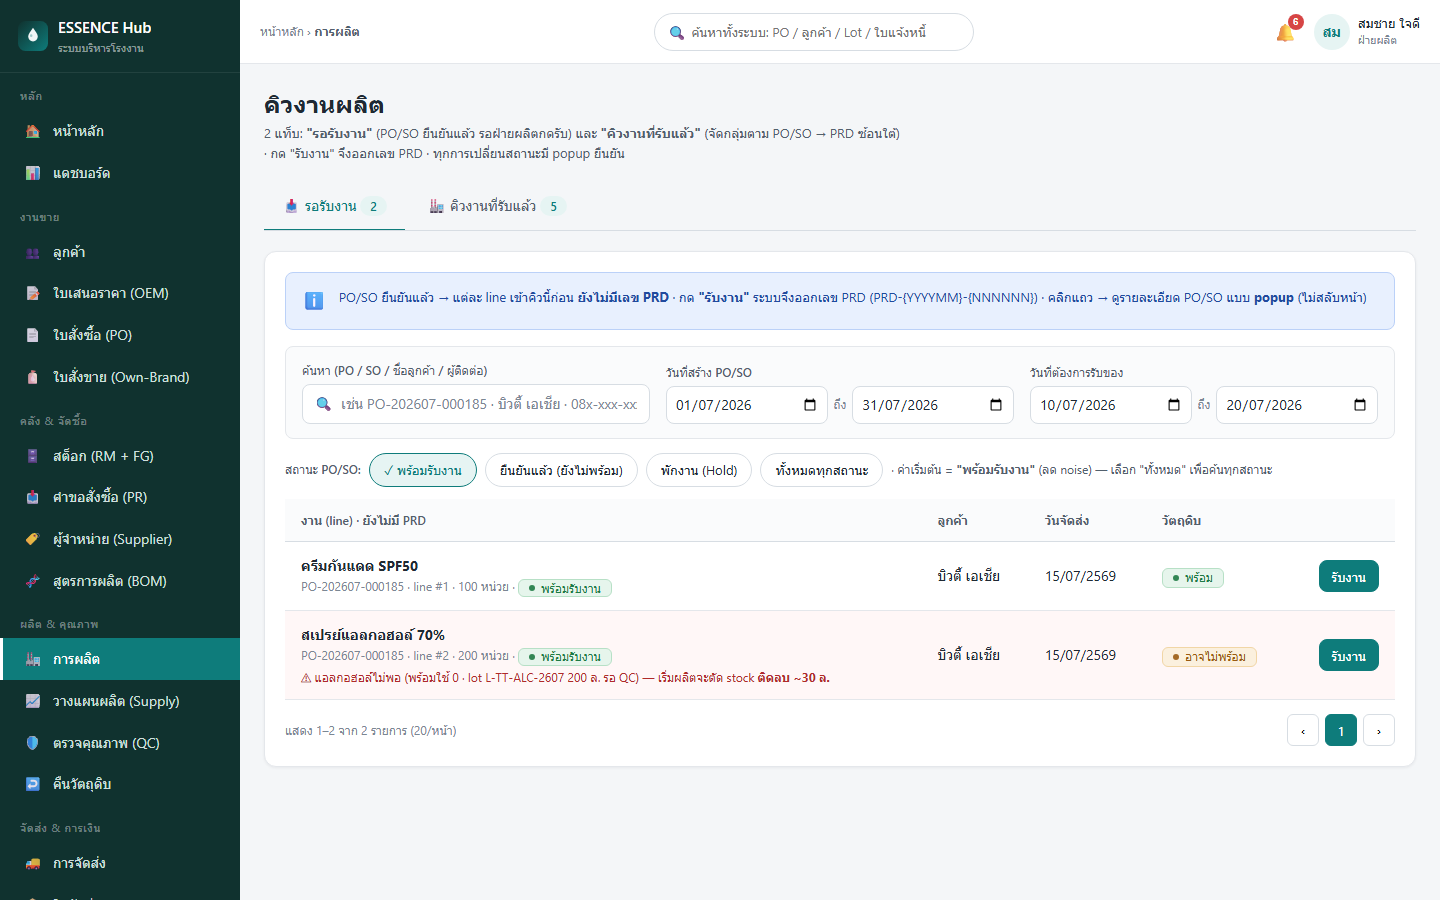
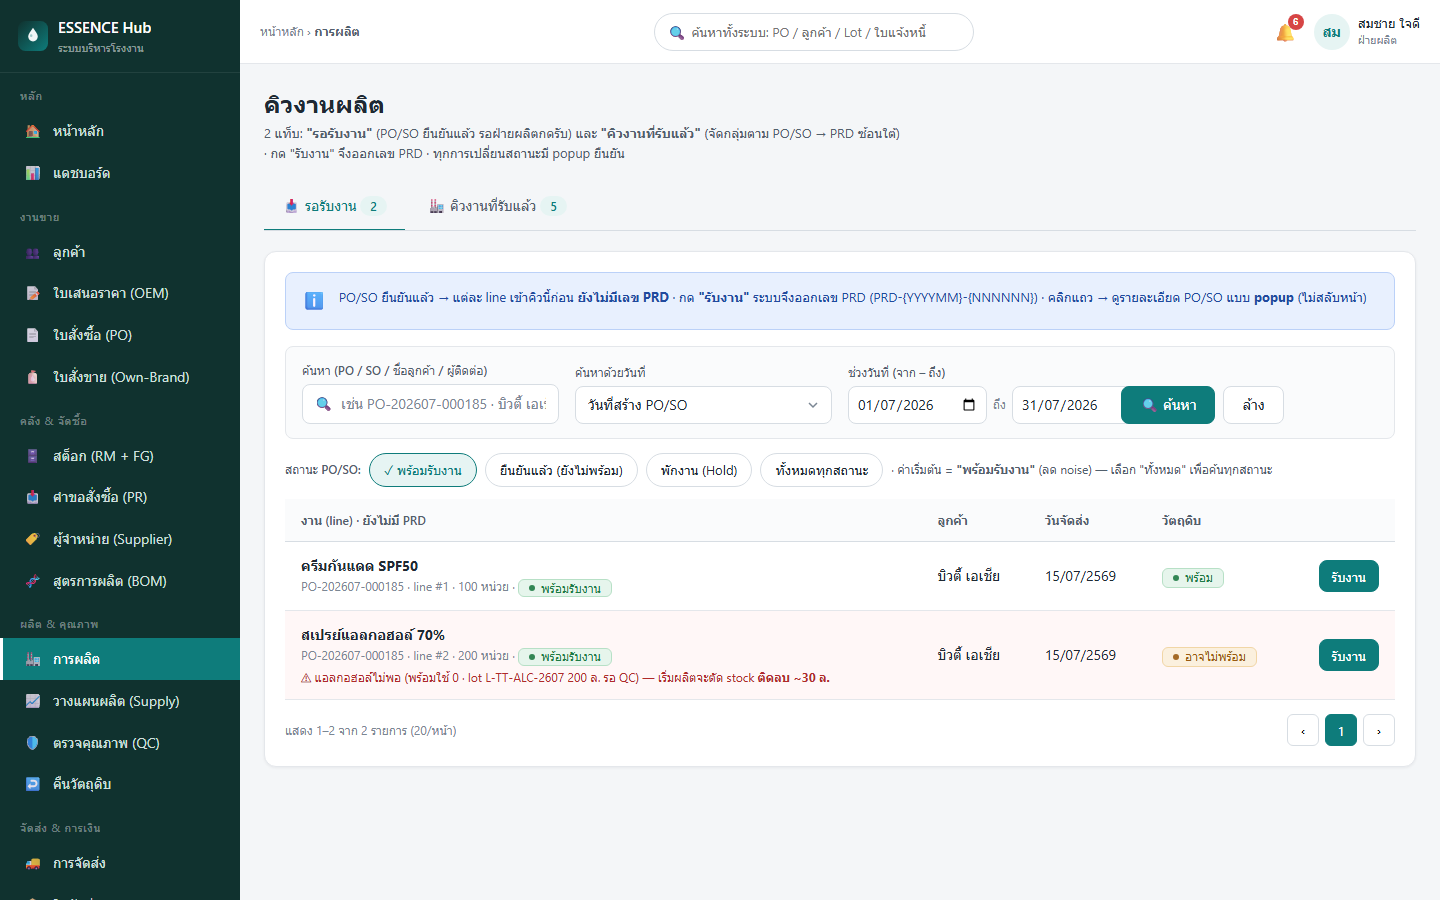
pipeline(erp-v2-ui-first): ux-ui production search fix (both tabs: add ค้นหา button + single date-range with date-type selector วันที่สร้าง/วันที่ต้องการรับของ) per Pond

Changed region(s): [[0.6875, 0.4044, 0.9062, 0.4978], [0.375, 0.4044, 0.5312, 0.4667], [0.5625, 0.4044, 0.6562, 0.4667]]

diff --git a/docs/design/erp-v2-ui-first/mockups/production.html b/docs/design/erp-v2-ui-first/mockups/production.html
@@ -145,6 +145,8 @@ textarea.inp{height:auto;padding:10px 12px;resize:vertical}
 .filtergrid .field{margin-bottom:0}
 .filtergrid .field label{font-size:12px;color:var(--text2);margin-bottom:4px}
 .daterange{display:flex;align-items:center;gap:6px}.daterange .inp{padding:0 8px;height:38px}.daterange .sep{color:var(--text3);font-size:12px;flex-shrink:0}
+.filtergrid .sel{height:38px}
+.searchactions{display:flex;gap:8px}.searchactions .btn{height:38px}
 .statusfilter{display:flex;align-items:center;gap:8px;flex-wrap:wrap;margin:2px 0 12px}
 .statusfilter .lbl{font-size:12px;color:var(--text2);font-weight:500}
 /* ==== grouped accepted queue (PROD-6) ==== */
@@ -213,8 +215,9 @@ textarea.inp{height:auto;padding:10px 12px;resize:vertical}
    <!-- PROD-1 search + PROD-2 filter -->
    <div class="filterpanel"><div class="filtergrid">
      <div class="field"><label>ค้นหา (PO / SO / ชื่อลูกค้า / ผู้ติดต่อ)</label><div class="searchbox" style="max-width:none"><span class="si">🔍</span><input class="inp" placeholder="เช่น PO-202607-000185 · บิวตี้ เอเชีย · 08x-xxx-xxxx"></div></div>
-     <div class="field"><label>วันที่สร้าง PO/SO</label><div class="daterange"><input class="inp" type="date" value="2026-07-01"><span class="sep">ถึง</span><input class="inp" type="date" value="2026-07-31"></div></div>
-     <div class="field"><label>วันที่ต้องการรับของ</label><div class="daterange"><input class="inp" type="date" value="2026-07-10"><span class="sep">ถึง</span><input class="inp" type="date" value="2026-07-20"></div></div>
+     <div class="field"><label>ค้นหาด้วยวันที่</label><select class="sel"><option>วันที่สร้าง PO/SO</option><option>วันที่ต้องการรับของ</option></select></div>
+     <div class="field"><label>ช่วงวันที่ (จาก – ถึง)</label><div class="daterange"><input class="inp" type="date" value="2026-07-01"><span class="sep">ถึง</span><input class="inp" type="date" value="2026-07-31"></div></div>
+     <div class="field"><label>&nbsp;</label><div class="searchactions"><button class="btn btn-primary">🔍 ค้นหา</button><button class="btn">ล้าง</button></div></div>
    </div></div>
    <div class="statusfilter"><span class="lbl">สถานะ PO/SO:</span><span class="chip on">✓ พร้อมรับงาน</span><span class="chip">ยืนยันแล้ว (ยังไม่พร้อม)</span><span class="chip">พักงาน (Hold)</span><span class="chip">ทั้งหมดทุกสถานะ</span><span class="tiny" style="color:var(--text2)">· ค่าเริ่มต้น = <b>"พร้อมรับงาน"</b> (ลด noise) — เลือก "ทั้งหมด" เพื่อค้นทุกสถานะ</span></div>
    <div class="tblwrap"><table class="tbl"><thead><tr><th>งาน (line) · ยังไม่มี PRD</th><th>ลูกค้า</th><th>วันจัดส่ง</th><th>วัตถุดิบ</th><th></th></tr></thead><tbody>
@@ -228,8 +231,9 @@ textarea.inp{height:auto;padding:10px 12px;resize:vertical}
    <!-- PROD-4 search (+PRD) -->
    <div class="filterpanel"><div class="filtergrid">
      <div class="field"><label>ค้นหา (PO / SO / <b>PRD</b> / ชื่อลูกค้า / ผู้ติดต่อ)</label><div class="searchbox" style="max-width:none"><span class="si">🔍</span><input class="inp" placeholder="เช่น PRD-202607-000091 · PO-202607-000181 · เดอร์มา แคร์"></div></div>
-     <div class="field"><label>วันที่สร้าง PO/SO</label><div class="daterange"><input class="inp" type="date" value="2026-07-01"><span class="sep">ถึง</span><input class="inp" type="date" value="2026-07-31"></div></div>
-     <div class="field"><label>วันที่ต้องการรับของ</label><div class="daterange"><input class="inp" type="date" value="2026-07-01"><span class="sep">ถึง</span><input class="inp" type="date" value="2026-07-31"></div></div>
+     <div class="field"><label>ค้นหาด้วยวันที่</label><select class="sel"><option>วันที่สร้าง PO/SO</option><option>วันที่ต้องการรับของ</option></select></div>
+     <div class="field"><label>ช่วงวันที่ (จาก – ถึง)</label><div class="daterange"><input class="inp" type="date" value="2026-07-01"><span class="sep">ถึง</span><input class="inp" type="date" value="2026-07-31"></div></div>
+     <div class="field"><label>&nbsp;</label><div class="searchactions"><button class="btn btn-primary">🔍 ค้นหา</button><button class="btn">ล้าง</button></div></div>
    </div></div>
    <!-- PROD-5 filter + default + ordering -->
    <div class="statusfilter"><span class="lbl">สถานะ:</span><span class="chip on">รับงานแล้ว</span><span class="chip on">กำลังผลิต</span><span class="chip on">รอ QC</span><span class="chip on">พร้อมส่งมอบ</span><span class="chip on">พักงาน (Hold)</span><span class="chip">ทั้งหมด</span></div>
